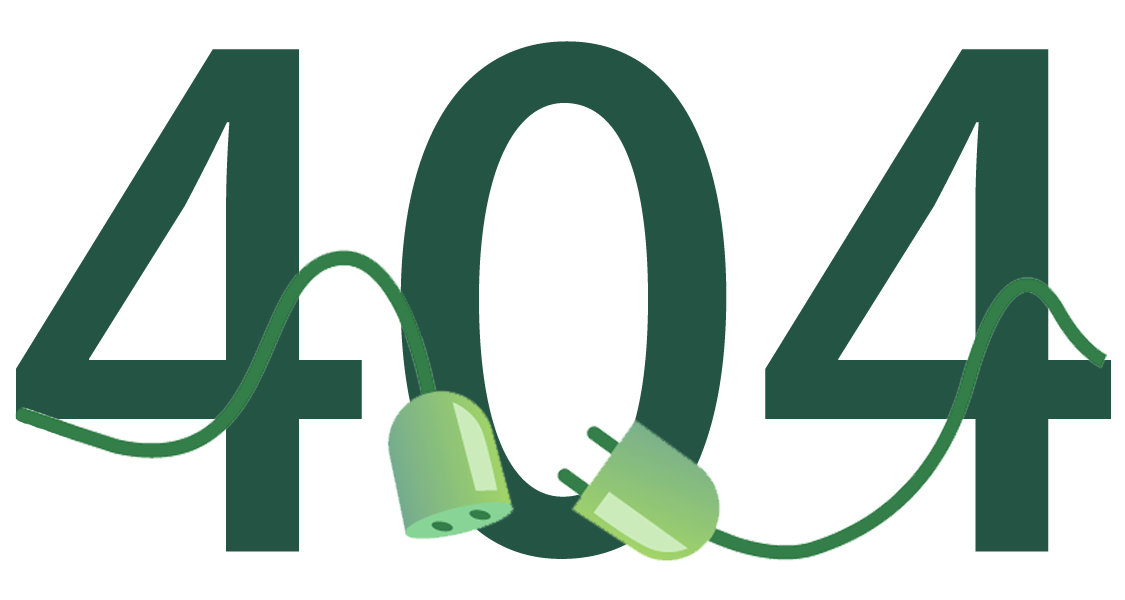
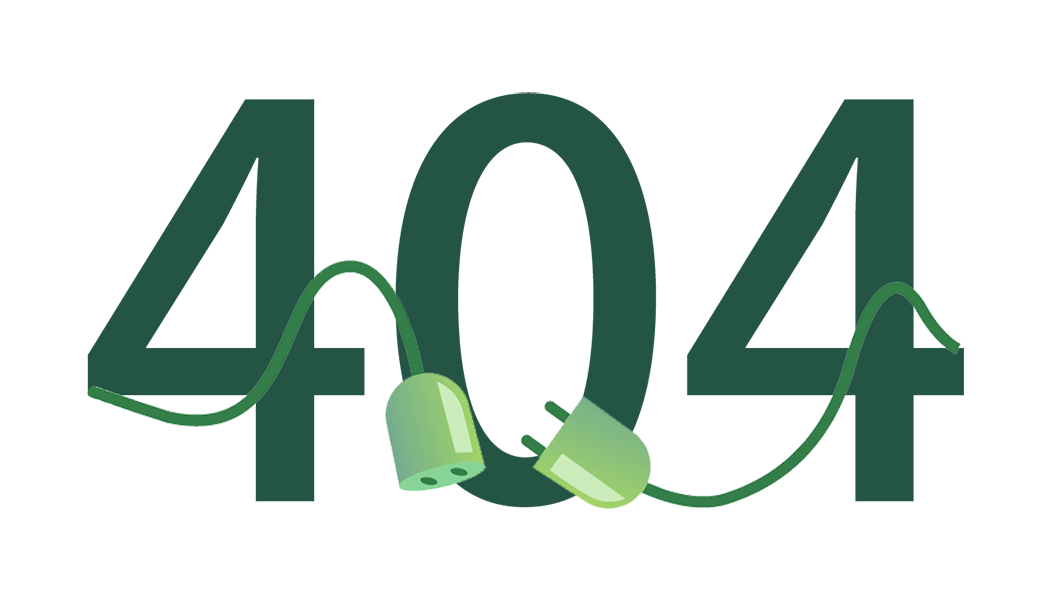
error images resized

diff --git a/style.css b/style.css
@@ -1,11 +1,11 @@
 /*
-Theme Name:     Neve Child
+Theme Name:    Theme Transformers
 Theme URI:      https://themeisle.com/themes/neve/
 Template:       neve
 Author:         Transformers
 Author URI:     https://themeisle.com
-Description:    Neve is a super fast, easily customizable, multi-purpose theme. It’s perfect for blogs, small business, startups, agencies, firms, e-commerce shops (WooCommerce storefront) as well as personal portfolio sites and most types of projects. A fully AMP optimized and responsive theme, Neve will load in mere seconds and adapt perfectly on any viewing device. While it is lightweight and has a minimalist design, the theme is highly extendable, it has a highly SEO optimized code, resulting in top rankings in Google search results. Neve works perfectly with Gutenberg and the most popular page builders (Elementor, Brizy, Beaver Builder, Visual Composer, SiteOrigin, Divi). Neve is also WooCommerce ready, responsive, RTL & translation ready. Look no further. Neve is the perfect theme for you!
-Version:        1.0.0
+Description:    Theme Transformers is a custom theme based on the neve theme, It has been custom designed for the transformers team for Leverage Capital
+Version:        1.0.1
 License:        GNU General Public License v2 or later
 License URI:    http://www.gnu.org/licenses/gpl-2.0.html
 Text Domain:    nevechild
@@ -297,11 +297,11 @@ a:hover {
    /* color: #121212; */
   } 
 
-  /* not found - top*/
-  #not-found{
-   padding-top: 7rem;
-  }
-    /* not found - search form*/
-  #not-found-search{
-     margin-bottom: 7rem;
-  }
+   /* not found - top*/
+   #not-found{
+      padding-top: 5rem;
+     }
+       /* not found - search form*/
+     #not-found-search{
+        margin-bottom: 7rem;
+     }
